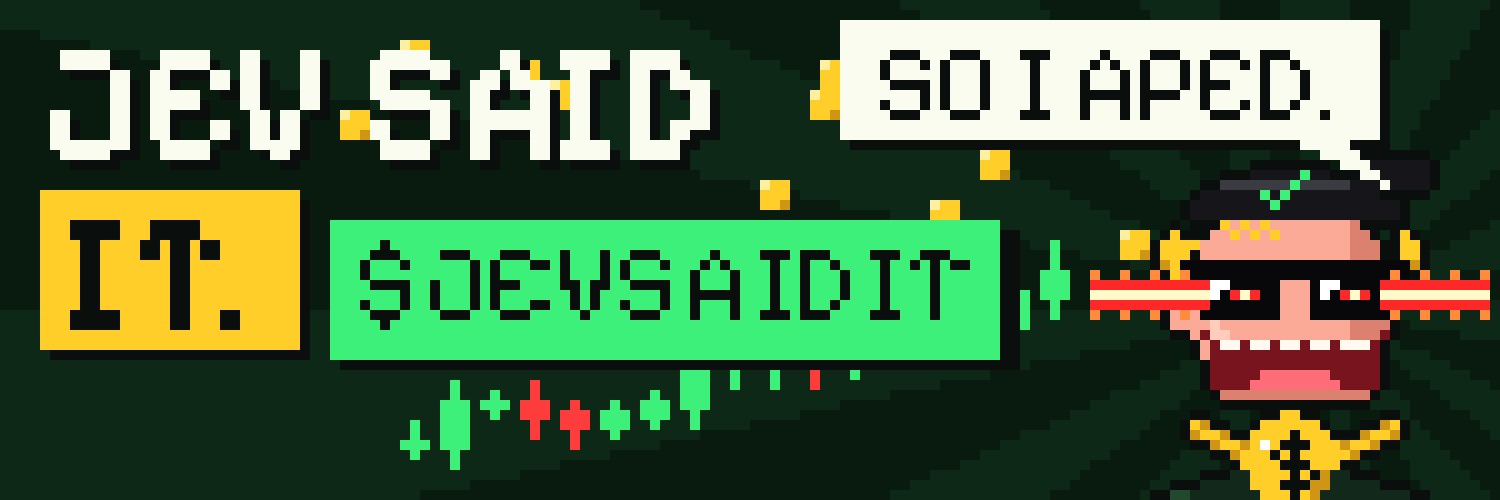
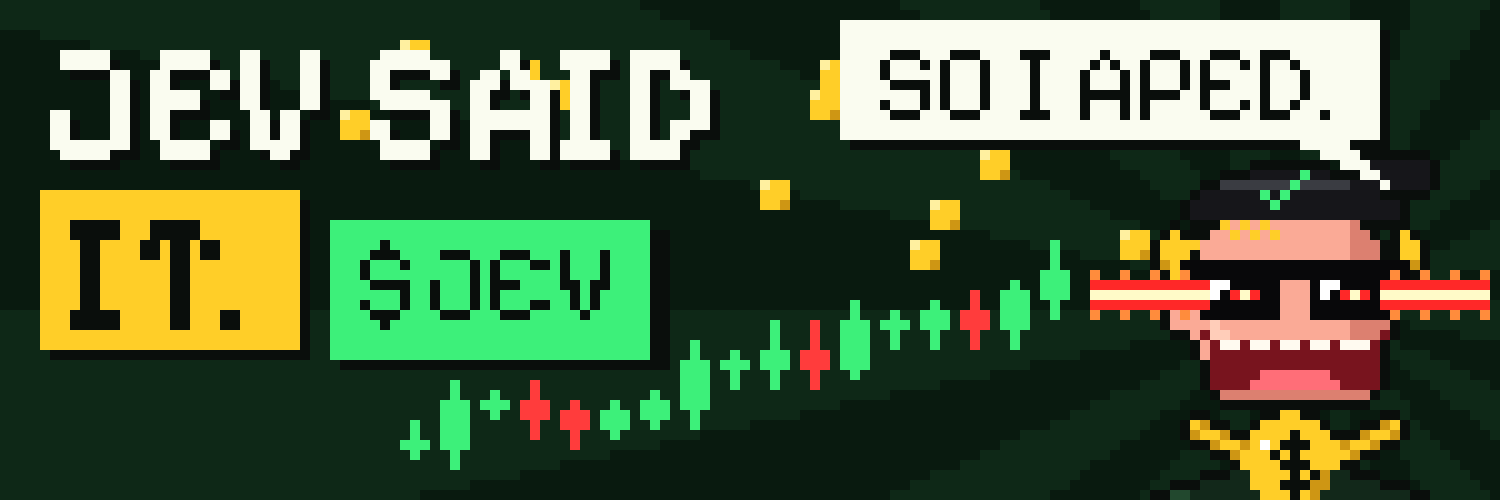
Sync from the working repository (5722eba)

Changed region(s): [[0.3987, 0.42, 0.7053, 0.75]]

diff --git a/engine/scripts/check-announcer.ts b/engine/scripts/check-announcer.ts
@@ -1,0 +1,105 @@
+// Checks the announcer's credentials before they go on Railway. Publishes NOTHING in public:
+// the only message it sends goes to TELEGRAM_TEST_CHAT_ID. X is only asked who the token belongs to.
+//
+//   npx tsx --env-file=<file with the variables> scripts/check-announcer.ts
+//
+// Exit: 0 everything verified · 1 something is wrong (the line says what) · 2 could not check (network).
+import { oauthHeader, xCredsFromEnv } from "../src/announcer/x.js";
+
+const EXPECTED_X_USER = "jevsaidit";
+let wrong = 0;
+let unknown = 0;
+const ok = (m: string) => console.log(`  ok   ${m}`);
+const bad = (m: string) => (wrong++, console.log(`  FAIL ${m}`));
+const unk = (m: string) => (unknown++, console.log(`  ???  ${m}`));
+
+async function call<T>(url: string, init?: RequestInit): Promise<{ status: number; body: T; level: string | null } | null> {
+  try {
+    const res = await fetch(url, { ...init, signal: AbortSignal.timeout(20_000) });
+    return { status: res.status, body: (await res.json().catch(() => ({}))) as T, level: res.headers.get("x-access-level") };
+  } catch (e) {
+    unk(`${new URL(url).host}: no answer (${(e as Error).name})`);
+    return null;
+  }
+}
+
+type Tg<T> = { ok: boolean; result?: T; description?: string };
+
+async function telegram() {
+  console.log("telegram");
+  const token = process.env.TELEGRAM_BOT_TOKEN?.trim();
+  if (!token) return bad("TELEGRAM_BOT_TOKEN missing");
+  const api = (m: string) => `https://api.telegram.org/bot${token}/${m}`;
+
+  const me = await call<Tg<{ id: number; username: string }>>(api("getMe"));
+  if (!me) return;
+  if (!me.body.ok) return bad(`getMe: ${me.body.description ?? me.status}`);
+  const botId = me.body.result!.id;
+  ok(`bot @${me.body.result!.username}`);
+
+  const channel = process.env.TELEGRAM_CHANNEL_ID?.trim();
+  const test = process.env.TELEGRAM_TEST_CHAT_ID?.trim();
+  if (!channel || !test) {
+    // The ids are not visible in the apps: they come from the updates the bot has received.
+    const up = await call<Tg<Array<Record<string, { chat?: { id: number; type: string; title?: string; username?: string } }>>>>(api("getUpdates"));
+    const chats = new Map<number, string>();
+    for (const u of up?.body.result ?? [])
+      for (const v of Object.values(u)) if (v && typeof v === "object" && v.chat) chats.set(v.chat.id, `${v.chat.type} ${v.chat.title ?? v.chat.username ?? ""}`);
+    if (chats.size === 0) console.log("  hint no chats seen yet: write /start to the bot and post once in the channel, then rerun");
+    for (const [id, what] of chats) console.log(`  seen ${id}  ${what}`);
+  }
+
+  if (!channel) bad("TELEGRAM_CHANNEL_ID missing (needed for live)");
+  else {
+    const m = await call<Tg<{ status: string; can_post_messages?: boolean }>>(api(`getChatMember?chat_id=${encodeURIComponent(channel)}&user_id=${botId}`));
+    if (m && !m.body.ok) bad(`channel ${channel}: ${m.body.description}`);
+    else if (m) {
+      const r = m.body.result!;
+      if (r.status === "administrator" && r.can_post_messages) ok(`channel ${channel}: bot is admin and can post`);
+      else bad(`channel ${channel}: bot is "${r.status}"${r.status === "administrator" ? " without the right to post" : ""}`);
+    }
+  }
+
+  if (!test) bad("TELEGRAM_TEST_CHAT_ID missing (needed for test mode)");
+  else {
+    const s = await call<Tg<unknown>>(api("sendMessage"), {
+      method: "POST",
+      headers: { "content-type": "application/json" },
+      body: JSON.stringify({ chat_id: test, text: "announcer check: this chat receives ANNOUNCE_MODE=test" }),
+    });
+    if (s && !s.body.ok) bad(`test chat ${test}: ${s.body.description}`);
+    else if (s) ok(`test chat ${test}: message delivered`);
+  }
+}
+
+async function x() {
+  console.log("x");
+  let creds;
+  try {
+    creds = xCredsFromEnv(process.env);
+  } catch (e) {
+    return bad((e as Error).message);
+  }
+  if (!creds) return bad("no X variables: posts would be recorded as `unconfigured`");
+  const url = "https://api.x.com/2/users/me";
+  const r = await call<{ data?: { username?: string }; title?: string; detail?: string }>(url, {
+    headers: { authorization: oauthHeader(creds, "GET", url), "user-agent": "jevsaidit-announcer/1" },
+  });
+  if (!r) return;
+  if (r.status !== 200 || !r.body.data?.username) return bad(`users/me ${r.status}: ${r.body.detail ?? r.body.title ?? "no body"}`);
+  const u = r.body.data.username;
+  // A token of the wrong account would post as that account: the one check that matters most.
+  if (u.toLowerCase() !== EXPECTED_X_USER) bad(`the access token belongs to @${u}, not @${EXPECTED_X_USER}`);
+  else ok(`access token is @${u}`);
+  // OAuth 1.0a answers carry the token's permission. "read" = generated before "Read and write" was
+  // set: the first post would fail with 403. Regenerate the access token after changing the permission.
+  const level = r.level;
+  if (level === "read-write" || level === "read-write-directmessages") ok(`access level ${level}`);
+  else if (level) bad(`access level "${level}": set Read and write in the app, then REGENERATE the access token`);
+  else unk("access level not reported by X");
+}
+
+await telegram();
+await x();
+console.log(wrong ? `\n${wrong} to fix` : unknown ? "\nnot verified: network" : "\nall verified");
+process.exit(wrong ? 1 : unknown ? 2 : 0);

diff --git a/engine/src/announcer/soul.ts b/engine/src/announcer/soul.ts
@@ -55,8 +55,8 @@ export class Fmt {
 }
 
 const DENY = [
-  /\bbuy\s+\$?jevsaidit\b/i,
-  /\$jevsaidit\s+(will|to|gonna)\s+(pump|moon|run|send)/i,
+  /\bbuy\s+\$?jev\b/i,
+  /\$jev\b\s+(will|to|gonna)\s+(pump|moon|run|send)/i,
   /\b\d+x\b/i,
   /\bguarante/i,
   /\bprice (target|prediction)\b/i,
@@ -65,7 +65,7 @@ const DENY = [
 
 export function guard(text: string, f: Fmt): { ok: true } | { ok: false; reason: string } {
   for (const d of DENY) if (d.test(text)) return { ok: false, reason: `forbidden: ${d}` };
-  let rest = text.replace(/https?:\/\/\S+/g, " ").replace(/0x[0-9a-fA-F…]+/g, " ").replace(/#jevsaidit|\$JEVSAIDIT/g, " ");
+  let rest = text.replace(/https?:\/\/\S+/g, " ").replace(/0x[0-9a-fA-F…]+/g, " ").replace(/#jevsaidit|\$JEV\b/g, " ");
   for (const s of [...f.produced].sort((a, b) => b.length - a.length)) rest = rest.split(s).join(" ");
   for (const c of CONSTANTS) rest = rest.split(c).join(" ");
   const digit = rest.match(/\d/);
@@ -128,14 +128,14 @@ export function render(e: AnnounceEvent, site: string): { telegram: string | nul
     case "swap": {
       const text = post(
         "the fees came in.",
-        `${f.eth(e.ethIn)} bought $JEVSAIDIT. ${f.tokens(e.burned)} burned. the rest pays the callers.`,
+        `${f.eth(e.ethIn)} bought $JEV. ${f.tokens(e.burned)} burned. the rest pays the callers.`,
         `tx: ${EXPLORER}/tx/${e.tx}`,
       );
       return { telegram: text, x: text, fmt: f };
     }
     case "pin": {
       const text = post(
-        "hold $JEVSAIDIT, get calls.",
+        "hold $JEV, get calls.",
         `${CONSTANTS[0]} = ${CONSTANTS[2]}. ${CONSTANTS[1]} = ${CONSTANTS[3]}.`,
         "be right, get paid from the fees.",
         "be wrong, lose nothing but pride.",

diff --git a/site/src/app/w/[epoch]/[addr]/page.tsx b/site/src/app/w/[epoch]/[addr]/page.tsx
@@ -9,7 +9,7 @@ type P = { params: Promise<{ epoch: string; addr: string }> };
 export const dynamic = "force-dynamic";
 
 const BRAND_IMAGE = "/brand/og-1200x630.png";
-const description = "Best-calibrated calls get paid in $JEVSAIDIT, bought on the market with trading fees.";
+const description = "Best-calibrated calls get paid in $JEV, bought on the market with trading fees.";
 
 export async function generateMetadata({ params }: P): Promise<Metadata> {
   const { epoch, addr } = await params;
@@ -19,7 +19,7 @@ export async function generateMetadata({ params }: P): Promise<Metadata> {
     return { title, description, openGraph: { title, images: [{ url: BRAND_IMAGE, width: 1200, height: 630 }] }, twitter: { card: "summary_large_image", title, images: [BRAND_IMAGE] } };
   }
   if (!w) return {};
-  const title = `I beat ${w.jev ? "Jev" : "the model"}: +${tokens(w.amount)} $JEVSAIDIT in epoch ${w.epoch}.`;
+  const title = `I beat ${w.jev ? "Jev" : "the model"}: +${tokens(w.amount)} $JEV in epoch ${w.epoch}.`;
   const image = `/api/card/win/${epoch}/${addr}`;
   return {
     title,
@@ -34,5 +34,5 @@ export default async function Page({ params }: P) {
   const w = await winCard(epoch, addr);
   if (w === BLIND) return <SharePage image={BRAND_IMAGE} alt="Jev Said It" blind />;
   if (!w) notFound();
-  return <SharePage image={`/api/card/win/${epoch}/${addr}`} alt={`Won ${tokens(w.amount)} $JEVSAIDIT in epoch ${w.epoch}`} />;
+  return <SharePage image={`/api/card/win/${epoch}/${addr}`} alt={`Won ${tokens(w.amount)} $JEV in epoch ${w.epoch}`} />;
 }

diff --git a/engine/src/questions/open.ts b/engine/src/questions/open.ts
@@ -54,12 +54,21 @@ const ERC20_SYMBOL = parseAbi(["function symbol() view returns (string)"]);
  *  token: a URL, an @handle or a sentence in there would be printed verbatim by the announcer. */
 export const SYMBOL_RE = /^[A-Za-z0-9_.-]{1,12}$/;
 
+/** Our own ticker. Our token is never a candidate (candidates.ts), so any other token calling itself
+ *  JEV is a clone (seven on Robinhood Chain on 22/09/2026): printing "$JEV up?" about one of them would
+ *  read as a verdict on ours. Such a token is shown by its address, like one without a symbol. */
+export const OWN_TICKER = "JEV";
+
+export function displaySymbol(s: unknown): string | null {
+  return typeof s === "string" && SYMBOL_RE.test(s) && s.toUpperCase() !== OWN_TICKER ? s : null;
+}
+
 /** The ticker, if the token exposes a plain one. A token without symbol() or with an odd symbol() blocks nothing. */
 async function symbolOf(data: PublicClient | undefined, token: string): Promise<string | null> {
   if (!data) return null;
   try {
     const s = await data.readContract({ address: token as `0x${string}`, abi: ERC20_SYMBOL, functionName: "symbol" });
-    return typeof s === "string" && SYMBOL_RE.test(s) ? s : null;
+    return displaySymbol(s);
   } catch {
     return null;
   }

diff --git a/engine/test/soul.test.ts b/engine/test/soul.test.ts
@@ -48,9 +48,9 @@ describe("render", () => {
     const texts = new Set(Array.from({ length: 12 }, (_, i) => render({ ...e, key: `outcome:0x${i}` }, site).telegram));
     expect(texts.size).toBeGreaterThan(2);
   });
-  it("$JEVSAIDIT appears only in posts about the token", () => {
-    expect(render(events[0]!, site).telegram).not.toContain("$JEVSAIDIT");
-    expect(render(events[6]!, site).telegram).toContain("$JEVSAIDIT");
+  it("$JEV appears only in posts about the token", () => {
+    expect(render(events[0]!, site).telegram).not.toContain("$JEV");
+    expect(render(events[6]!, site).telegram).toContain("$JEV");
   });
 });
 
@@ -67,7 +67,7 @@ describe("guard", () => {
   });
   it("refuses shilling our own token", () => {
     const f = new Fmt();
-    expect(guard(`buy $JEVSAIDIT now\n\n${SIGNATURE}`, f).ok).toBe(false);
-    expect(guard(`$JEVSAIDIT to the moon, 100x\n\n${SIGNATURE}`, f).ok).toBe(false);
+    expect(guard(`buy $JEV now\n\n${SIGNATURE}`, f).ok).toBe(false);
+    expect(guard(`$JEV to the moon, 100x\n\n${SIGNATURE}`, f).ok).toBe(false);
   });
 });

diff --git a/site/src/app/api/card/win/[epoch]/[addr]/route.tsx b/site/src/app/api/card/win/[epoch]/[addr]/route.tsx
@@ -15,14 +15,14 @@ export async function GET(_req: Request, ctx: { params: Promise<{ epoch: string;
   const { fonts, mascot } = await cardAssets();
   return new ImageResponse(
     (
-      <Card mascot={mascot} footer={`$JEVSAIDIT  ·  ${SITE_HOST}  ·  #jevsaidit`}>
+      <Card mascot={mascot} footer={`$JEV  ·  ${SITE_HOST}  ·  #jevsaidit`}>
         <Label>{`EPOCH ${w.epoch}  ·  ${short(w.account)}`}</Label>
         {/* "Jev" only when Jev answered the whole epoch; a fallback model is named, never dressed as Jev. */}
         <Big color={C.hood}>{w.jev ? "I BEAT JEV." : "I BEAT THE MODEL."}</Big>
         {!w.jev && w.models.length > 0 && <Label>{`answered by ${w.models.join(", ")} (fallback)`}</Label>}
         <div style={{ display: "flex", height: 18 }} />
         <Mid color={C.gold}>{`+${tokens(w.amount)}`}</Mid>
-        <Mid color={C.gold}>$JEVSAIDIT</Mid>
+        <Mid color={C.gold}>$JEV</Mid>
         <Line color={C.dim}>bought on the market with trading fees.</Line>
       </Card>
     ),

diff --git a/engine/test/display-symbol.test.ts b/engine/test/display-symbol.test.ts
@@ -1,0 +1,17 @@
+import { describe, expect, it } from "vitest";
+import { displaySymbol } from "../src/questions/open.js";
+
+describe("displaySymbol", () => {
+  it("keeps a plain ticker", () => expect(displaySymbol("PONS")).toBe("PONS"));
+  it("drops a symbol that is a sentence or a link", () => {
+    expect(displaySymbol("buy at x.com/y")).toBeNull();
+    expect(displaySymbol(42)).toBeNull();
+  });
+  // Seven other tokens called JEV existed on Robinhood Chain on 22/09/2026: a post saying "$JEV up?"
+  // about one of them would read as a verdict on ours.
+  it("never prints a clone of our own ticker, in any case", () => {
+    expect(displaySymbol("JEV")).toBeNull();
+    expect(displaySymbol("jev")).toBeNull();
+    expect(displaySymbol("JEVX")).toBe("JEVX");
+  });
+});

diff --git a/site/src/app/api/card/call/[id]/[side]/route.tsx b/site/src/app/api/card/call/[id]/[side]/route.tsx
@@ -26,7 +26,7 @@ export async function GET(_req: Request, ctx: { params: Promise<{ id: string; si
         : "no trade in the window: void";
   return new ImageResponse(
     (
-      <Card mascot={mascot} footer={`$JEVSAIDIT  ·  ${SITE_HOST}  ·  #jevsaidit`}>
+      <Card mascot={mascot} footer={`$JEV  ·  ${SITE_HOST}  ·  #jevsaidit`}>
         {/* Commitment: another model's answer is never published as Jev's. The label names who answered. */}
         <Label>{jev ? "JEV SAID" : `${(c.model || "UNKNOWN MODEL").toUpperCase()} SAID  (FALLBACK)`}</Label>
         <Big color={C.gold}>{said(c.p).toUpperCase()}</Big>

diff --git a/site/src/lib/site.ts b/site/src/lib/site.ts
@@ -3,7 +3,7 @@
 
 const env = (v: string | undefined) => (v && v.trim() !== "" ? v.trim() : undefined);
 
-export const TICKER = env(process.env.NEXT_PUBLIC_TICKER) ?? "JEVSAIDIT";
+export const TICKER = env(process.env.NEXT_PUBLIC_TICKER) ?? "JEV";
 export const TOKEN_ADDRESS = env(process.env.NEXT_PUBLIC_TOKEN_ADDRESS);
 // Always the www host: the apex has no certificate, so a printed apex URL is a dead link in a browser.
 export const SITE_URL = env(process.env.NEXT_PUBLIC_SITE_URL) ?? "https://www.jevsaidit.com";

diff --git a/engine/src/config.ts b/engine/src/config.ts
@@ -27,7 +27,7 @@ export interface Config {
   /** the chain of the token and its Transfers. In production it is the same as RPC_URL; in testnet
    *  trials the test token lives on 46630 while the Pons pools stay on mainnet */
   tokenRpcUrl: string;
-  /** the token whose balances are rebuilt: $JEVSAIDIT in production */
+  /** the token whose balances are rebuilt: $JEV in production */
   token: Address;
   /** block the Transfer indexer starts from (runbook §4.4, LAUNCH_BLOCK) */
   launchBlock: bigint;

diff --git a/brand/banner.py b/brand/banner.py
@@ -71,7 +71,7 @@ f = ImageFont.truetype("MartianMono.ttf", 26); f.set_variation_by_axes([800, 112
 tb = D.textbbox((0, 0), "MATCH", font=f)
 D.text(((sx + 18) * SC - (tb[2] - tb[0]) // 2 + 2, (sy + 6) * SC - (tb[3] + tb[1]) // 2 + 2), "MATCH", font=f, fill=STAMP)
 # line under the title
-mono((260, 452), "$JEVSAIDIT · Robinhood Chain", 20, GREEN, 500)
+mono((260, 452), "$JEV · Robinhood Chain", 20, GREEN, 500)
 big.save("banner-1500x500.png")
 # Open Graph 1200x630: same scene, background extended above and below, no overlaid avatar
 og = Image.new("RGB", (1200, 630), BG); od = ImageDraw.Draw(og)

diff --git a/brand/degen_banner.py b/brand/degen_banner.py
@@ -44,9 +44,9 @@ ptext((4, 1), "JEV SAID", 16, WHITE, INK)
 dr.rectangle((5, 20, 30, 35), fill=INK); dr.rectangle((4, 19, 29, 34), fill=GOLD)
 ptext((6, 18), "IT.", 16, INK)
 # ticker plate, as wide as the text
-tw, th = pw("$JEVSAIDIT", 11)
+tw, th = pw("$JEV", 11)
 dr.rectangle((34, 23, 34 + tw + 5, 36), fill=INK); dr.rectangle((33, 22, 33 + tw + 4, 35), fill=GREEN)
-ptext((35, 21), "$JEVSAIDIT", 11, INK)
+ptext((35, 21), "$JEV", 11, INK)
 # laser mascot, big, bottom right (the lasers leave the edge)
 m = d.render(1, bg=False).convert("RGBA")
 img.paste(m, (W - 40 - 1, H - 38), m)
